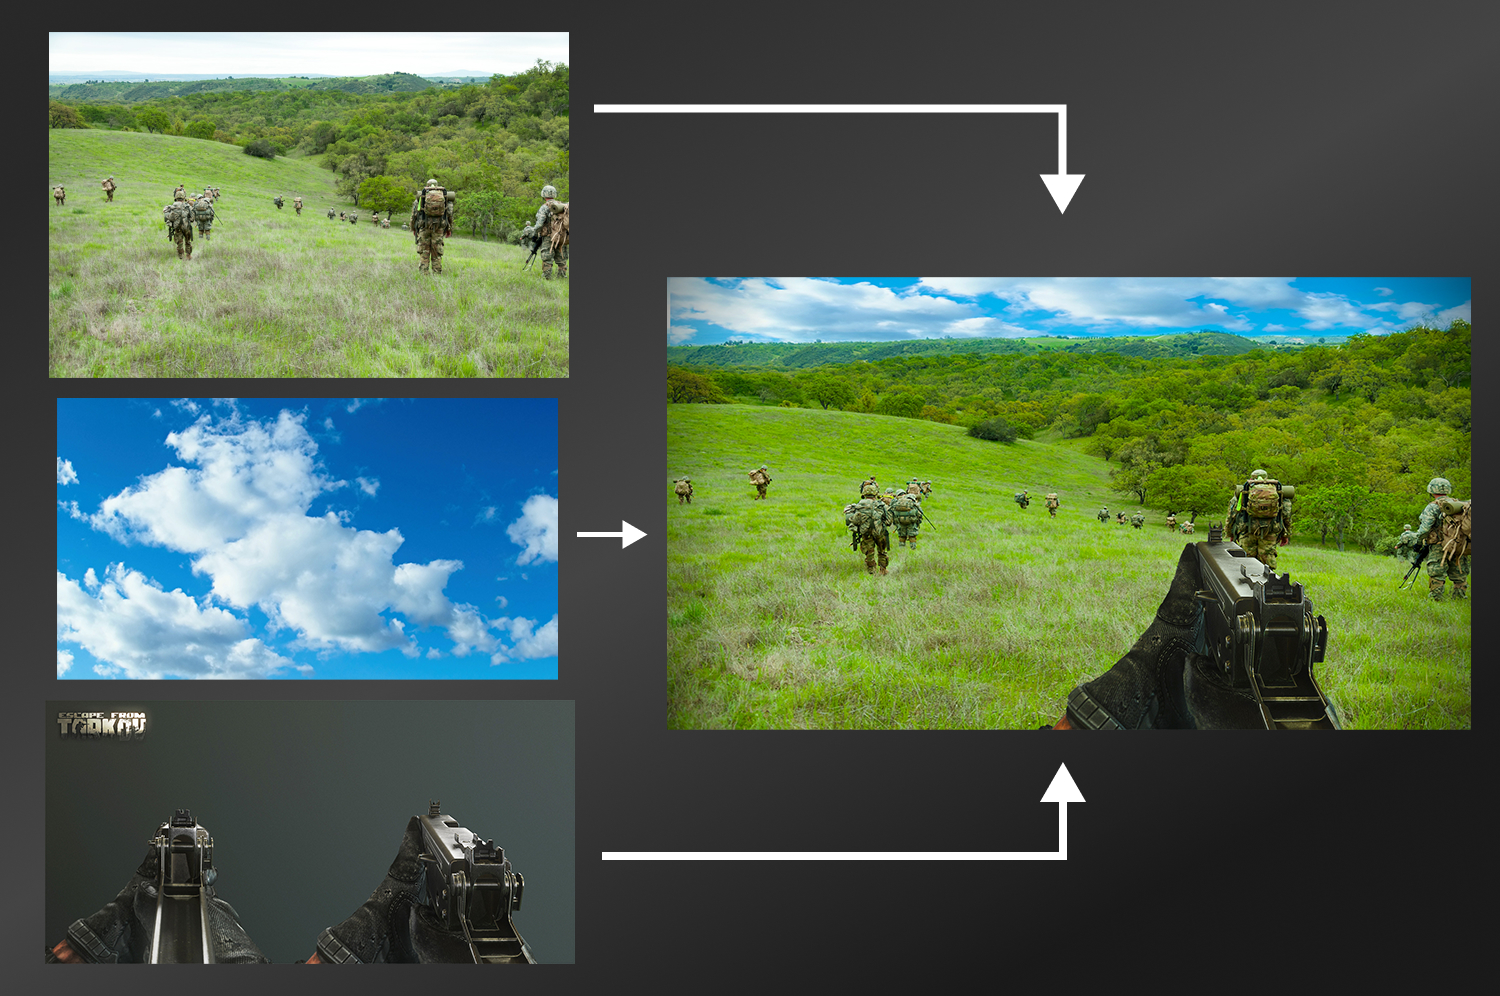
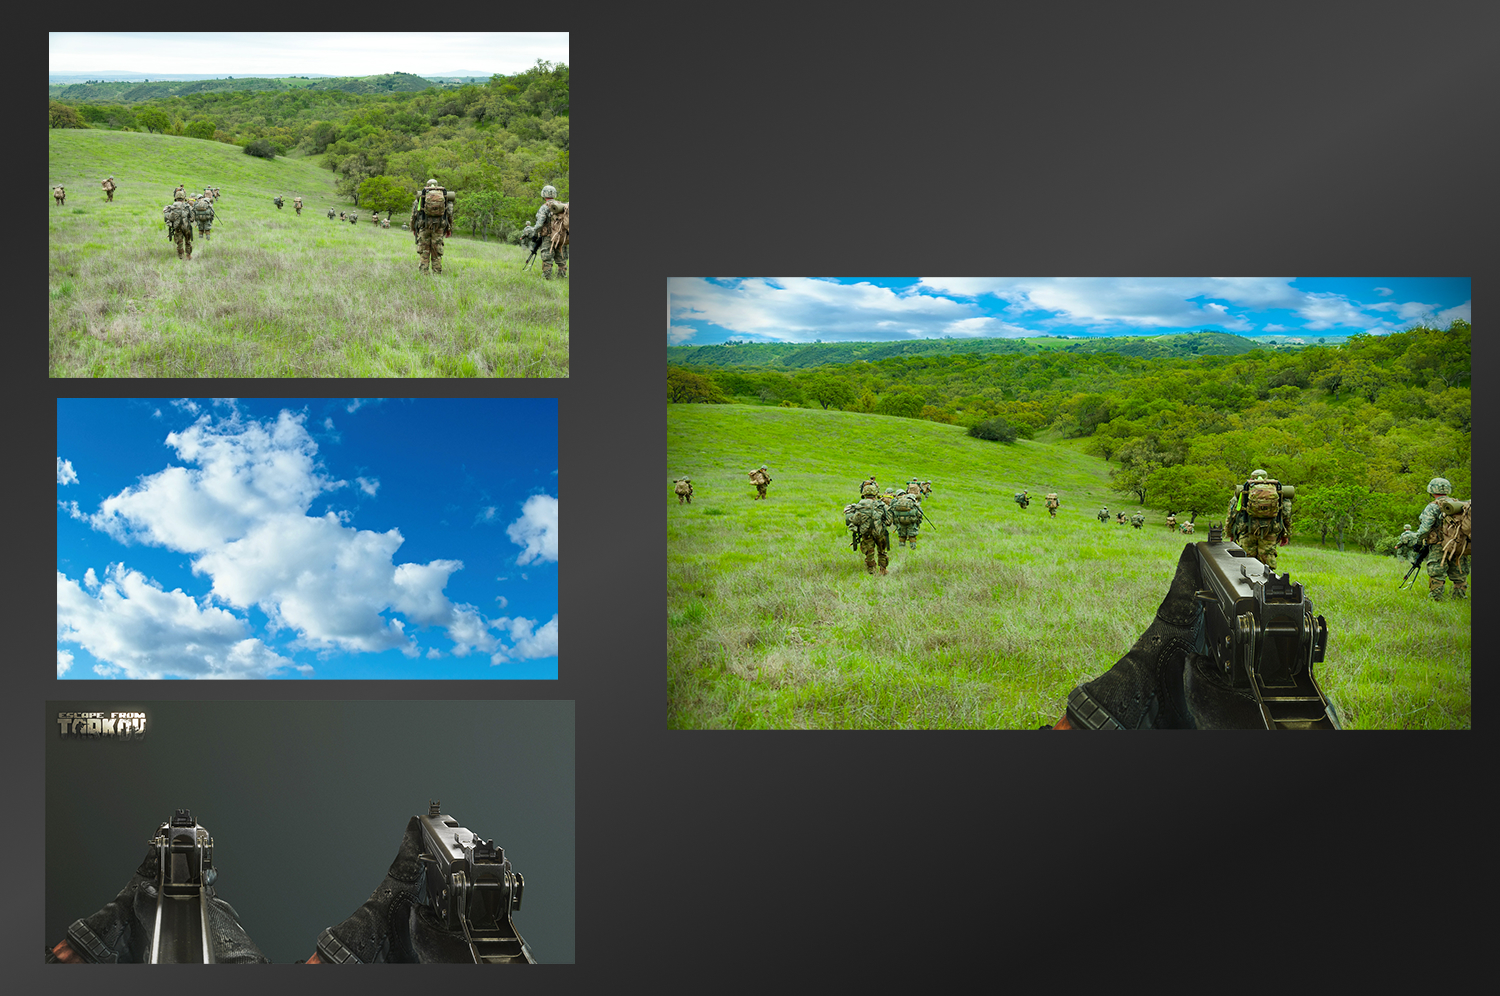
image change, content additions, style changes

Changed region(s): [[0.3987, 0.0934, 0.736, 0.2179], [0.3987, 0.7781, 0.736, 0.8715], [0.3987, 0.5291, 0.4293, 0.5602]]

diff --git a/src/pages/battlefield6.js b/src/pages/battlefield6.js
@@ -144,13 +144,13 @@ const Battlefield6 = () => {
                 />
                 <div>
                   <h3>Low-fidelity wireframes</h3>
-                  <p>When designing the initial sketches/wireframes I wanted to translate some particular UI elements of the previous games into my own design &#8212; specifically the <strong>minimalist</strong> and sharp container-elements to sustain the <i>familiar design</i> between the games.</p>
+                  <p>When designing the initial sketches/wireframes I wanted to translate some particular UI elements of the previous games into my design &#8212; specifically the <strong>minimalist</strong> and sharp container elements to sustain the <i>familiar design</i> between the games.</p>
                   <br />
                   <ul>
-                    <li><strong>First wireframe</strong> were basically a carbon-copy of <i>Battlefield 5's</i> main menu. I was mainly getting familiarized with the <strong>Adobe XD</strong> at this point as I hadn't used it before.</li>
+                    <li><strong>The first wireframe</strong> was basically a carbon copy of <i>Battlefield 5's</i> main menu. I was primarily getting familiarized with the <strong>Adobe XD</strong> at this point as I hadn't used it before.</li>
                     <li>The <strong>second wireframe</strong> was decent but I felt I steered off too much from the identity of the <i>Battlefield</i> design.</li>
-                    <li><strong>Third pass</strong> is where I felt I was getting close, however, the navigation didn't feel modern enough and the general layout didn't have an intention.</li>
-                    <li><strong>Fourth and last iteration</strong>. Here I removed the container element of the navigation bar to make it stand out more and modified the layout to present a sort of hierarchical design. The largest element being the Hero/CTA and the other stacked elements being staggered to virtually present a arrow pointing towards the CTA.</li>
+                    <li><strong>The third pass</strong> is where I felt I was getting close, however, the navigation didn't feel modern enough and the general layout didn't have an intention.</li>
+                    <li><strong>Fourth and last iteration</strong>. Here I removed the container element of the navigation bar to make it stand out more and modified the layout to present a sort of hierarchical design. The largest element being the Hero/CTA and the other stacked elements being staggered to virtually present an arrow pointing towards the CTA.</li>
                   </ul>
                 </div>
               </div>
@@ -173,14 +173,18 @@ const Battlefield6 = () => {
                   </ul>
                 </div>
               </div>
+              <hr />
               <div className='extras'>
                 <h2>Extras</h2>
-                <p>At the end of the project I felt that I wanted something additional but different to break up the focus on menus, so tried to my hand at <strong>photobashing</strong> various images into one mockup, with the intention to present how UI would look in <strong>gameplay</strong> instead.</p>
-                <p>I ended up <u>not</u> finishing this, but the general idea and approach was fun and something I probably want to improve on in the future.</p>
+                <p>At the end of the project, I felt that I wanted something additional but different to break up the focus on menus, so I tried my hand at <strong>photobashing</strong> various images into one mockup, to present how UI would look in a <strong>gameplay</strong> situation instead.</p>
+                <p>I ended up <u>not</u> finishing this, but the general idea and approach were fun and something I probably want to improve on in the future.</p>
                 <br />
                 <ol>
-                  <li><strong>Base image</strong> &#8212; in this case a real life image of soldiers in a field.</li>
-                  <li><strong>Image of a blue better looking sky</strong> to replace the boring gray sky in the original base image.</li>
+                  <li><strong>Base image</strong> &#8212; in this case, a real-life image of soldiers in a field.</li>
+                  <li><strong>Image of a blue, better looking, sky</strong> to replace the boring gray sky in the original base image.</li>
+                  <li><strong>The last of the primary images that make it all come together</strong> is the first-person view of a character holding a gun, borrowed from <i>Escape From Tarkov</i>. Not only does this bring the illusion to life, but it presents from a designer's point of view how important it is to think about the horizontal positioning of the asset and how much it occludes from the player.</li>
+                  <br />
+                  <p>The very last thing I did was some <strong>color grading</strong> by bumping up the <strong>saturation</strong> to make it a bit <i>less like real life</i>, partly blending them with the digital ones. Unfortunately, no UI or HUD graphics were made for this gameplay mockup as I felt I hadn't planned it out enough and I had spent more time than I wanted on this project already.</p>
                 </ol>
                 <div className='image-solo'>
                   <div className='image-grid'>

diff --git a/src/pages/pioneer.js b/src/pages/pioneer.js
@@ -57,8 +57,8 @@ const Pioneer = () => {
                   <p>
                     During my time studying at <b>FutureGames</b>, we got an
                     assignment to design a <b>UI/HUD</b> for an existing game
-                    or make up an original concept. Our assignment from start to
-                    finish was to go through every stage of the design process,
+                    or make up an original concept. Our assignment was to go through every stage of the design process from start to
+                    finish,
                     like <b>sketching</b>, <b>low-</b> &{' '}
                     <b>high-fidelity wireframing</b>, and implement it to be
                     functional inside of <b>Unity</b> or <b>Figma</b>.
@@ -103,7 +103,6 @@ const Pioneer = () => {
                 rel="noopener noreferrer"
               >DICE</a>'s new installation of the Battlefield series, <strong>'Battlefield 2142'</strong>.</p>
               <br />
-              {/* <h2>Process</h2> */}
               <div className="image-duo">
                 <div>
                   <h3>Sketch pass 1</h3>

diff --git a/src/App.css b/src/App.css
@@ -1827,6 +1827,10 @@ footer {
   list-style-position: inside;
 }
 
+.battlefield6 .extras p:last-child {
+  text-align: left;
+}
+
 @media only screen and (min-width: 768px) {
   .three-row {
     flex-direction: row;
